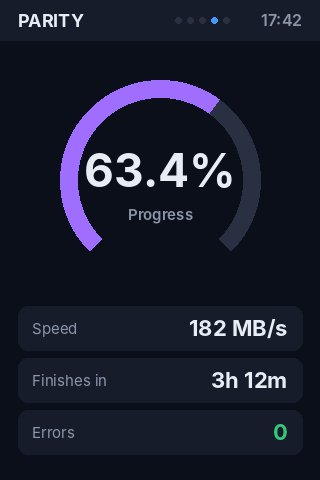
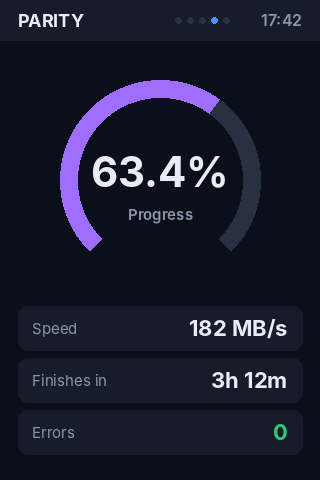
Ekrany LCD: procent wyśrodkowany w kole i dopasowany do szerokości
Uwaga z makiety. Liczba jest centrowana po obrysie znaków, a przy 100% czcionka
się zmniejsza, żeby nie dotykała łuku. Dotyczy ekranów System i Parity.

Claude-Session: https://claude.ai/code/session_01KdmNeRTRFZRJ18TRbeokR1

Changed region(s): [[0.5, 0.3125, 0.7188, 0.4062], [0.25, 0.3125, 0.4688, 0.4062]]

diff --git a/app/ekrany/rysuj.py b/app/ekrany/rysuj.py
@@ -99,6 +99,17 @@ def luk(d, cx, cy, r, procent, kolor, grubosc=14):
         d.arc((cx - r, cy - r, cx + r, cy + r), 135, 135 + 270 * procent / 100, fill=kolor, width=grubosc)
 
 
+def tekst_w_kole(d, cx, cy, tekst, max_szer, rozmiar, kolor):
+    """Rysuje liczbę wyśrodkowaną optycznie (po obrysie znaków) i zmniejsza czcionkę, gdy się nie mieści."""
+    while rozmiar > 12:
+        f = font(rozmiar, "Bold")
+        x0, y0, x1, y1 = d.textbbox((0, 0), tekst, font=f, anchor="ls")
+        if x1 - x0 <= max_szer:
+            break
+        rozmiar -= 2
+    d.text((cx - (x0 + x1) / 2, cy - (y0 + y1) / 2), tekst, font=f, fill=kolor, anchor="ls")
+
+
 def karta(d, x, y, szer, wys):
     d.rounded_rectangle((x, y, x + szer, y + wys), radius=10, fill=KOLORY["karta"])
 
@@ -108,7 +119,8 @@ def ekran_system(t, dane):
     naglowek(d, t["system"], 0, dane)
     # duży wskaźnik CPU
     luk(d, M + 74, 120, 60, dane["cpu"], kolor_progu(dane["cpu"], 70, 90))
-    d.text((M + 74, 114), f"{dane['cpu']:.0f}%", font=font(32, "Bold"), fill=KOLORY["tekst"], anchor="mm")
+    # wnętrze łuku: promień 60 minus grubość 14 daje 92 px średnicy; zostawiamy odstęp od łuku
+    tekst_w_kole(d, M + 74, 114, f"{dane['cpu']:.0f}%", 70, 30, KOLORY["tekst"])
     d.text((M + 74, 146), t["cpu"], font=font(14, "SemiBold"), fill=KOLORY["szary"], anchor="mm")
     # temperatura CPU i czas pracy
     temp = dane["cpu_temp"]
@@ -216,7 +228,7 @@ def ekran_parity(t, dane):
     naglowek(d, t["parity"], 3, dane)
     p = dane["parity_postep"]
     luk(d, W // 2, 180, 100, p, KOLORY["akcent2"], grubosc=18)
-    d.text((W // 2, 170), f"{liczba(p, t['_j'])}%", font=font(46, "Bold"), fill=KOLORY["tekst"], anchor="mm")
+    tekst_w_kole(d, W // 2, 172, f"{liczba(p, t['_j'])}%", 140, 44, KOLORY["tekst"])
     d.text((W // 2, 214), t["postep"], font=font(15, "SemiBold"), fill=KOLORY["szary"], anchor="mm")
     for i, (etyk, wart, kol) in enumerate([(t["predkosc"], dane["parity_predkosc"], KOLORY["tekst"]),
                                             (t["koniec"], dane["parity_eta"], KOLORY["tekst"]),
